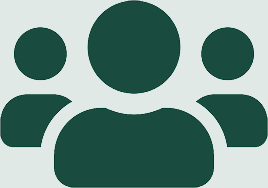
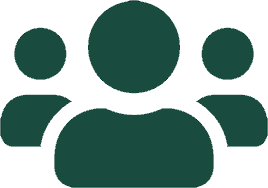
removed background by shreya

diff --git a/client/src/components/dashboard/MainAdminPage.js b/client/src/components/dashboard/MainAdminPage.js
@@ -118,7 +118,7 @@ const MainAdminPage = ({
             <div
               className="col-lg-5 card h2 text-center pt-5  "
               id="shadow-bck"
-              style={{ backgroundColor: "#e0e9e5f5" }}
+             
             >
               <div className="text-center">
                 <img
@@ -142,7 +142,7 @@ const MainAdminPage = ({
             <div
               className="col-lg-5 card  h2 text-center pt-5"
               id="shadow-bck"
-              style={{ backgroundColor: "#e0e9e5f5" }}
+            
             >
               <div className="text-center">
                 <img
@@ -171,7 +171,7 @@ const MainAdminPage = ({
             <div
               className="col-lg-5 card h2 text-center pt-5"
               id="shadow-bck"
-              style={{ backgroundColor: "#e0e9e5f5" }}
+              
             >
               <div className="text-center">
                 <img
@@ -195,7 +195,7 @@ const MainAdminPage = ({
             <div
               className="col-lg-5 card h2 text-center pt-5 "
               id="shadow-bck"
-              style={{ backgroundColor: "#e0e9e5f5" }}
+             
             >
               <div className="text-center">
                 <img

diff --git a/client/src/styles/CustomisedStyle.css b/client/src/styles/CustomisedStyle.css
@@ -334,7 +334,7 @@ footer.footer .top_top {
   display: flex;
   min-width: 0;
   word-wrap: break-word;
-  background-color: #e0e9e5f5;
+  /* background-color: #e0e9e5f5; */
 
   background-clip: border-box;
   border: 1px solid rgba(0, 0, 0, 0.125);
@@ -347,7 +347,7 @@ footer.footer .top_top {
   display: flex;
   min-width: 0;
   word-wrap: break-word;
-  background-color: #e0e9e5f5;
+  /* background-color: #e0e9e5f5; */
   background-clip: border-box;
   border: 1px solid rgba(0, 0, 0, 0.125);
   box-shadow: 0 5px 15px rgb(0 0 0 / 15%);
